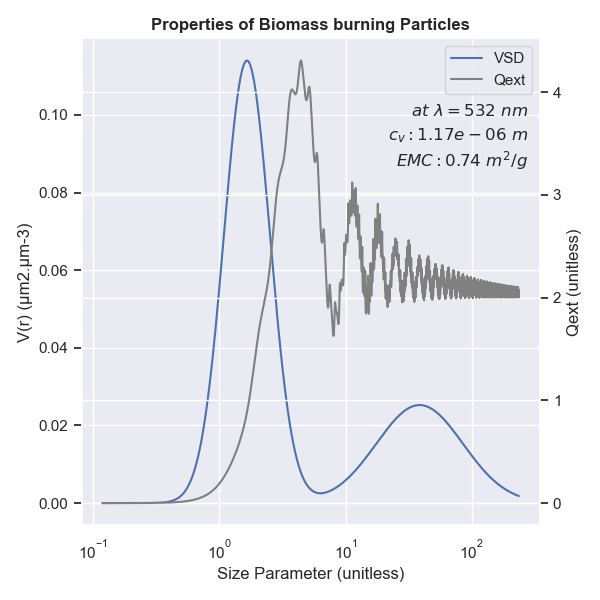
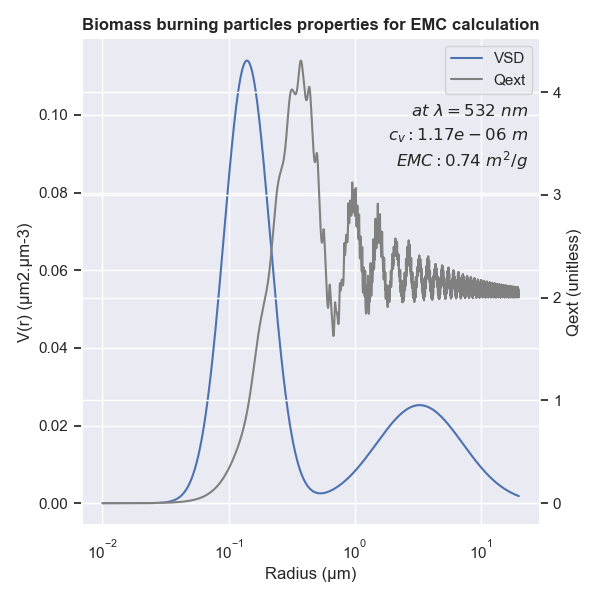
work on documentation

diff --git a/aprofiles/emc.py b/aprofiles/emc.py
@@ -173,14 +173,14 @@ class EMCData:
         fig, ax = plt.subplots(1,1, figsize=(6,6))
 
         #plot Volume Size Distribution in 1st axis
-        ax.plot(self.x, self.vsd, label='VSD')
+        ax.plot(self.radius, self.vsd, label='VSD')
         ax.set_ylabel('V(r) ({})'.format('µm2.µm-3'))
 
         #plot Number Size Distribution in 2nd axis
         if 'nsd' in self.__dict__:
             #add secondary yaxis
             ax2 = ax.twinx()
-            ax2.plot(self.x, self.qext, 'orange', label='Qext', color='gray')
+            ax2.plot(self.radius, self.qext, 'orange', label='Qext', color='gray')
             ax2.set_ylabel('Qext ({})'.format('unitless'))
             #ax2.set_ylim([0,10])
         
@@ -189,10 +189,10 @@ class EMCData:
         plt.text(0.975, 0.80, r'$c_v: {:.2e}\ m$'.format(self.conv_factor), horizontalalignment='right', verticalalignment='center', transform=ax.transAxes)
         plt.text(0.975, 0.75, r'$EMC: {:.2f}\ m^2/g$'.format(self.emc), horizontalalignment='right', verticalalignment='center', transform=ax.transAxes)
 
-        ax.set_xlabel('Size Parameter (unitless)')
+        ax.set_xlabel('Radius (µm)')
         ax.set_xscale('log')
         fig.legend(loc="upper right", bbox_to_anchor=(1,1), bbox_transform=ax.transAxes)
-        plt.title('Properties of {} Particles'.format(self.aer_type.capitalize().replace('_',' ')),weight='bold')
+        plt.title('{} particles properties for EMC calculation'.format(self.aer_type.capitalize().replace('_',' ')),weight='bold')
         plt.tight_layout()
         plt.show()
     

diff --git a/aprofiles/size_distribution.py b/aprofiles/size_distribution.py
@@ -131,7 +131,7 @@ class SizeDistributionData:
 
 def _main():
     import aprofiles as apro
-    sd_data = SizeDistributionData('urban')
+    sd_data = SizeDistributionData('dust')
     sd_data.plot()
 
 if __name__ == '__main__':
